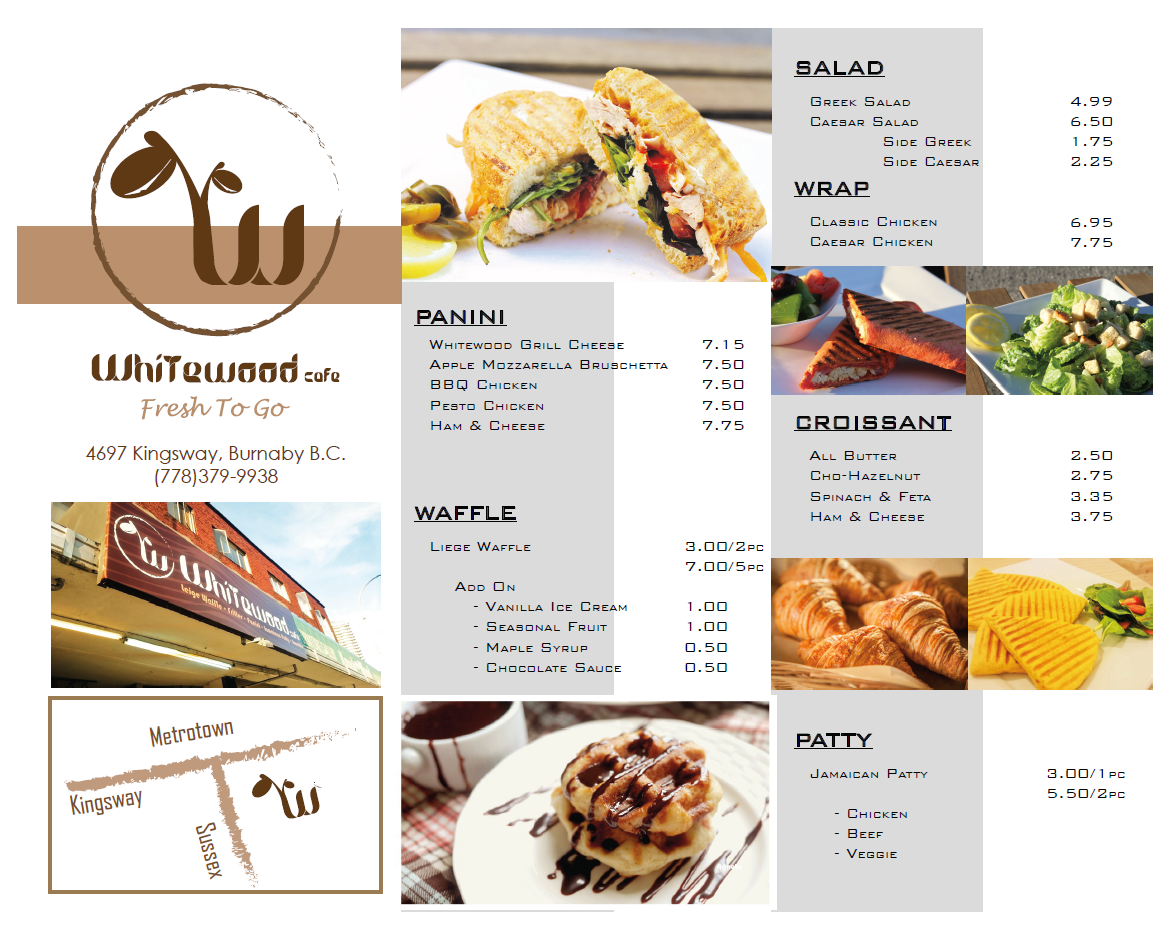
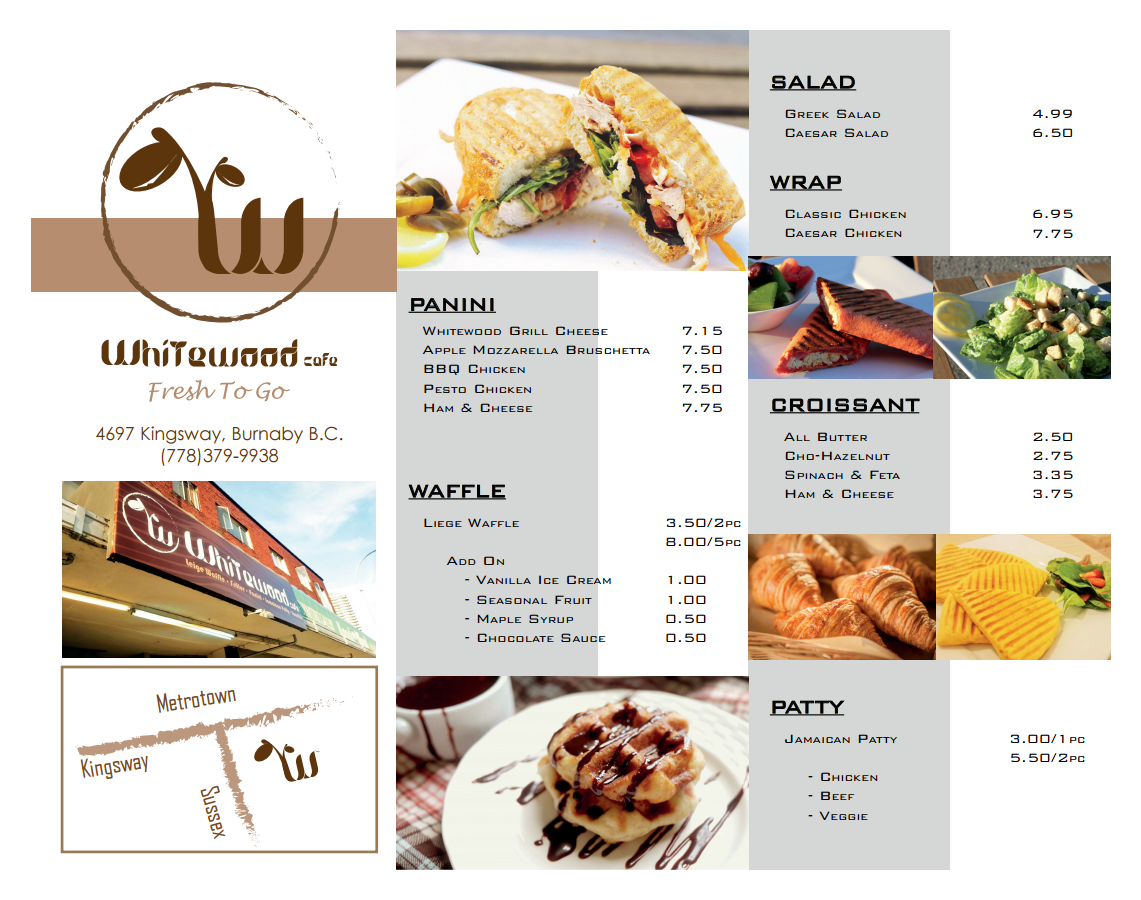
Updated menu and temporarily took out catering

diff --git a/index.html b/index.html
@@ -55,7 +55,7 @@
 									& Tea</span></a></li>
 						<li><a class="icon fa-delicious" href="waffle.html"><span>Waffle</span></a></li>
 						<li><a class="icon fa-list" href="menu.html"><span>Menu</span></a></li>
-						<li><a class="icon fa-cab" href="services.html"><span>Services</span></a></li>
+						<!--  <li><a class="icon fa-cab" href="services.html"><span>Services</span></a></li>-->
 					</ul>
 				</nav>
 							
@@ -94,7 +94,7 @@
 							<h3>Welcome to Whitewood Cafe</h3>
 							<br /> <br />
 							<p>
-								We offer catering services, check the services page for a sample menu! <br />
+								<!-- We offer catering services, check the services page for a sample menu! <br /> -->
 								<br /> Located right across Metrotown, Whitewood Cafe welcomes
 								you with only the finest food and beverage made with the
 								freshest ingredients. We've put together hearty recipes from all

diff --git a/coffee.html b/coffee.html
@@ -55,7 +55,7 @@
 									& Tea</span></a></li>
 						<li><a class="icon fa-delicious" href="waffle.html"><span>Waffle</span></a></li>
 						<li><a class="icon fa-list" href="menu.html"><span>Menu</span></a></li>
-						<li><a class="icon fa-cab" href="services.html"><span>Services</span></a></li>
+						<!--  <li><a class="icon fa-cab" href="services.html"><span>Services</span></a></li>-->
 					</ul>
 				</nav>
 							

diff --git a/menu.html b/menu.html
@@ -41,7 +41,7 @@
 									& Tea</span></a></li>
 						<li><a class="icon fa-delicious" href="waffle.html"><span>Waffle</span></a></li>
 						<li><a class="icon fa-list" href="menu.html"><span>Menu</span></a></li>
-						<li><a class="icon fa-cab" href="services.html"><span>Services</span></a></li>
+						<!--  <li><a class="icon fa-cab" href="services.html"><span>Services</span></a></li>-->
 					</ul>
 				</nav>
 							

diff --git a/waffle.html b/waffle.html
@@ -55,7 +55,7 @@
 									& Tea</span></a></li>
 						<li><a class="icon fa-delicious" href="waffle.html"><span>Waffle</span></a></li>
 						<li><a class="icon fa-list" href="menu.html"><span>Menu</span></a></li>
-						<li><a class="icon fa-cab" href="services.html"><span>Services</span></a></li>
+						<!--  <li><a class="icon fa-cab" href="services.html"><span>Services</span></a></li>-->
 					</ul>
 				</nav>
 							
